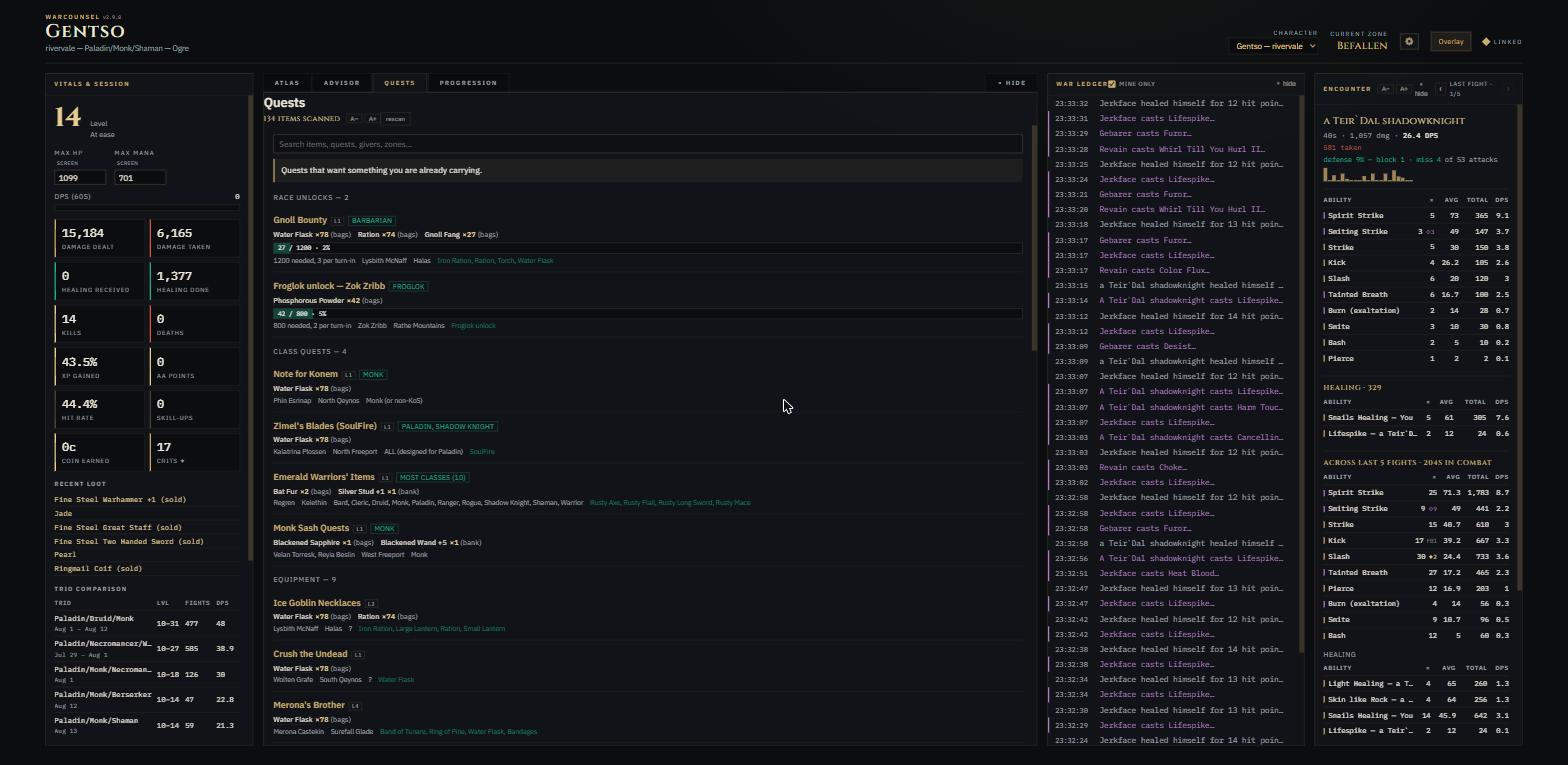
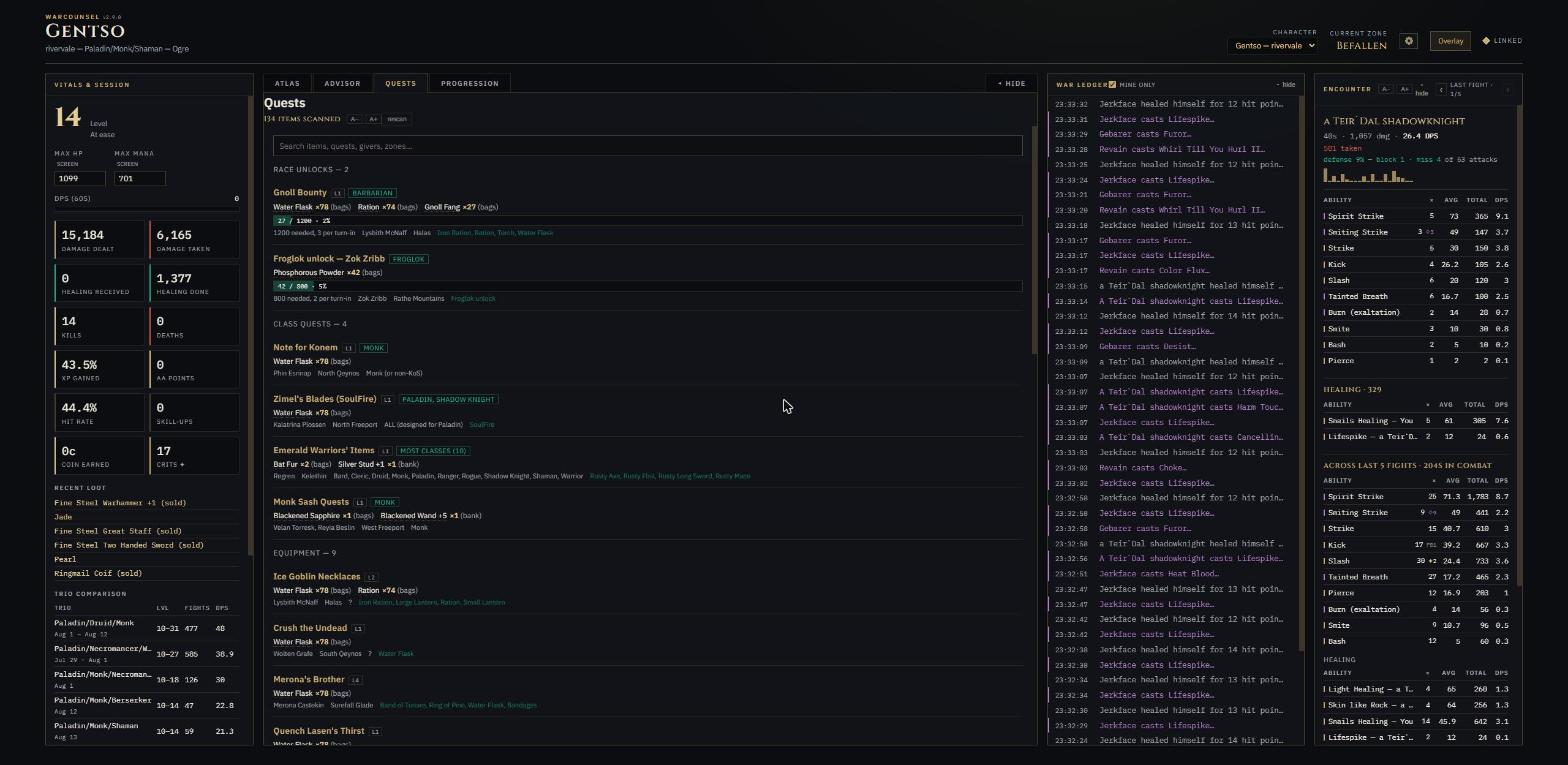
Design pass on the Quests and Progression tabs
Four corrections inside StoneGlass — no new palette, no new type. Three of
them remove something.

Progression rows repeated their own section heading. Sixteen rows reading
"Primary Class Unlock - Bard" under a heading that says CLASS UNLOCKS spend
23 characters restating the section before the one word that tells them
apart; raids read "Conqueror of The Plane of Fear" under RAID TARGETS. The
prefix now comes from the section's own longest common prefix rather than a
hardcoded list, so Keys — whose four names share nothing — keeps its full
labels with no special case.

Completed rows were dimmed to 45% opacity. That inverted the hierarchy of a
panel whose entire job is showing progress: the one class unlock this
character had finished was the faintest thing on screen, quieter than
fifteen rows of 0/6. Done now reads as done — gold name, gold mark, "DONE"
instead of 4/4, and no bar, because the word says it.

Empty progress rails on every unstarted row were texture, not information;
the fraction already says 0/6. The rail appears when there is something in
it.

The Quests note under the search read as a second, disabled input — same
width, same boxed treatment, directly below it — and its text repeated the
tab name and the search placeholder. Its rationale moved to the header
tooltip, where it is available without occupying the top of the panel.

Screenshot refreshed to match.

diff --git a/frontend/components/ProgressionPanel.tsx b/frontend/components/ProgressionPanel.tsx
@@ -50,6 +50,28 @@ const LABEL: Record<string, string> = {
   other: "Other",
 };
 
+/** The part of a row's name the section header already told you.
+ *
+ * Sixteen rows reading "Primary Class Unlock - Bard" under a heading that
+ * says CLASS UNLOCKS spend 23 characters restating the section before the
+ * one word that differentiates them. Taken from the section's own longest
+ * common prefix rather than a hardcoded list, so Keys — whose four names
+ * share nothing — keeps its full labels without a special case.
+ */
+function sharedPrefix(names: string[]): string {
+  if (names.length < 2) return "";
+  let p = names[0];
+  for (const n of names.slice(1)) {
+    let i = 0;
+    while (i < p.length && i < n.length && p[i] === n[i]) i++;
+    p = p.slice(0, i);
+    if (!p) return "";
+  }
+  // Only strip a real label prefix, and never the whole name.
+  const cut = p.replace(/[^ ]*$/, "");
+  return cut.length >= 4 && names.every((n) => n.slice(cut.length).trim()) ? cut : "";
+}
+
 function pct(a: Achievement): number {
   return a.steps > 0 ? a.steps_done / a.steps : a.done ? 1 : 0;
 }
@@ -147,6 +169,7 @@ export function ProgressionPanel() {
           // of what is left to do.
           const rows = [...s.achievements].sort(
             (a, b) => Number(a.done) - Number(b.done) || pct(b) - pct(a));
+          const strip = sharedPrefix(s.achievements.map((a) => a.name));
           return (
             <div key={s.section} className="prog-sec">
               <button
@@ -174,12 +197,15 @@ export function ProgressionPanel() {
                     onClick={() => setOpenRow((o) => ({ ...o, [a.name]: !rowOpen }))}
                   >
                     <span className="prog-caret">{rowOpen ? "▾" : "▸"}</span>
-                    {a.name}
+                    {a.done && <span className="prog-done-mark">✦</span>}
+                    {strip ? a.name.slice(strip.length) : a.name}
                     {a.steps > 0 && (
-                      <span className="prog-frac">{a.steps_done}/{a.steps}</span>
+                      <span className="prog-frac">
+                        {a.done ? "done" : `${a.steps_done}/${a.steps}`}
+                      </span>
                     )}
                   </button>
-                  {a.steps > 0 && (
+                  {a.steps_done > 0 && !a.done && (
                     <div className="prog-track" title={`${a.steps_done} of ${a.steps}`}>
                       <div className="prog-fill" style={{ width: `${pct(a) * 100}%` }} />
                     </div>

diff --git a/frontend/components/QuestPanel.tsx b/frontend/components/QuestPanel.tsx
@@ -138,7 +138,7 @@ export function QuestPanel({ level }: { level?: number | null }) {
   return (
     <section className="panel quest-panel">
       <div className="panel-head">
-        <h2>Quests</h2>
+        <h2 title="From your /outputfile inventory export joined to the wiki. Counts are what you hold; the required amount lives in each quest's walkthrough, so follow the link rather than trusting a number here. Class and level are shown but never used to hide a row — you will change trio and the items keep.">Quests</h2>
         <span className="atlas-zone">
           {scanned != null ? `${scanned} items scanned` : ""}
         </span>
@@ -171,12 +171,11 @@ export function QuestPanel({ level }: { level?: number | null }) {
           )}
         </div>
 
-        <p
-          className="adv-note"
-          title="From your /outputfile inventory export joined to the wiki. Counts are what you hold; the required amount lives in each quest's walkthrough, so follow the link rather than trusting a number here. Class and level are shown but never used to hide a row — you will change trio and the items keep."
-        >
-          Quests that want something you are already carrying.
-        </p>
+        {/* The explanatory note that used to sit here read as a second,
+            disabled input — same width and boxed treatment, directly under
+            the search — and its text repeated the tab name and the
+            placeholder. The rationale lives on the header tooltip, where it
+            is available without occupying the top of the panel. */}
 
         {err && <p className="set-note" data-ok="0">{err}</p>}
         {busy && !rows && <p className="adv-note">Reading item pages…</p>}

diff --git a/frontend/app/globals.css b/frontend/app/globals.css
@@ -2753,7 +2753,19 @@ button.app-version:hover { color: var(--gold-bright); }
 .prog-caret { opacity: .7; }
 .prog-count { margin-left: auto; font-family: var(--font-mono, monospace); opacity: .8; }
 .prog-row { padding: 7px 0 8px; border-bottom: 1px solid rgba(200,170,110,.10); }
-.prog-row[data-done] { opacity: .45; }
+/* A finished achievement is the REWARD, not the leftover. Dimming it to .45
+   made the one thing this character had accomplished the faintest item on
+   screen, quieter than fifteen rows of 0/6 — an inverted hierarchy in a
+   panel whose whole job is showing progress. It reads as done instead:
+   full-strength name, gold mark, and no bar, because "done" says it. */
+.prog-row[data-done] .prog-name { color: var(--gold, #c8aa6e); }
+.prog-row[data-done] .prog-frac {
+  color: var(--gold, #c8aa6e);
+  text-transform: uppercase;
+  letter-spacing: .1em;
+  font-size: 10px;
+}
+.prog-done-mark { color: var(--gold, #c8aa6e); margin-right: 2px; }
 .prog-name { display: flex; align-items: baseline; gap: 8px; font-size: 12.5px; }
 .prog-frac { margin-left: auto; font-family: var(--font-mono, monospace); font-size: 11px; opacity: .75; }
 .prog-track { height: 3px; margin: 5px 0 6px; background: rgba(255,255,255,.07); }
